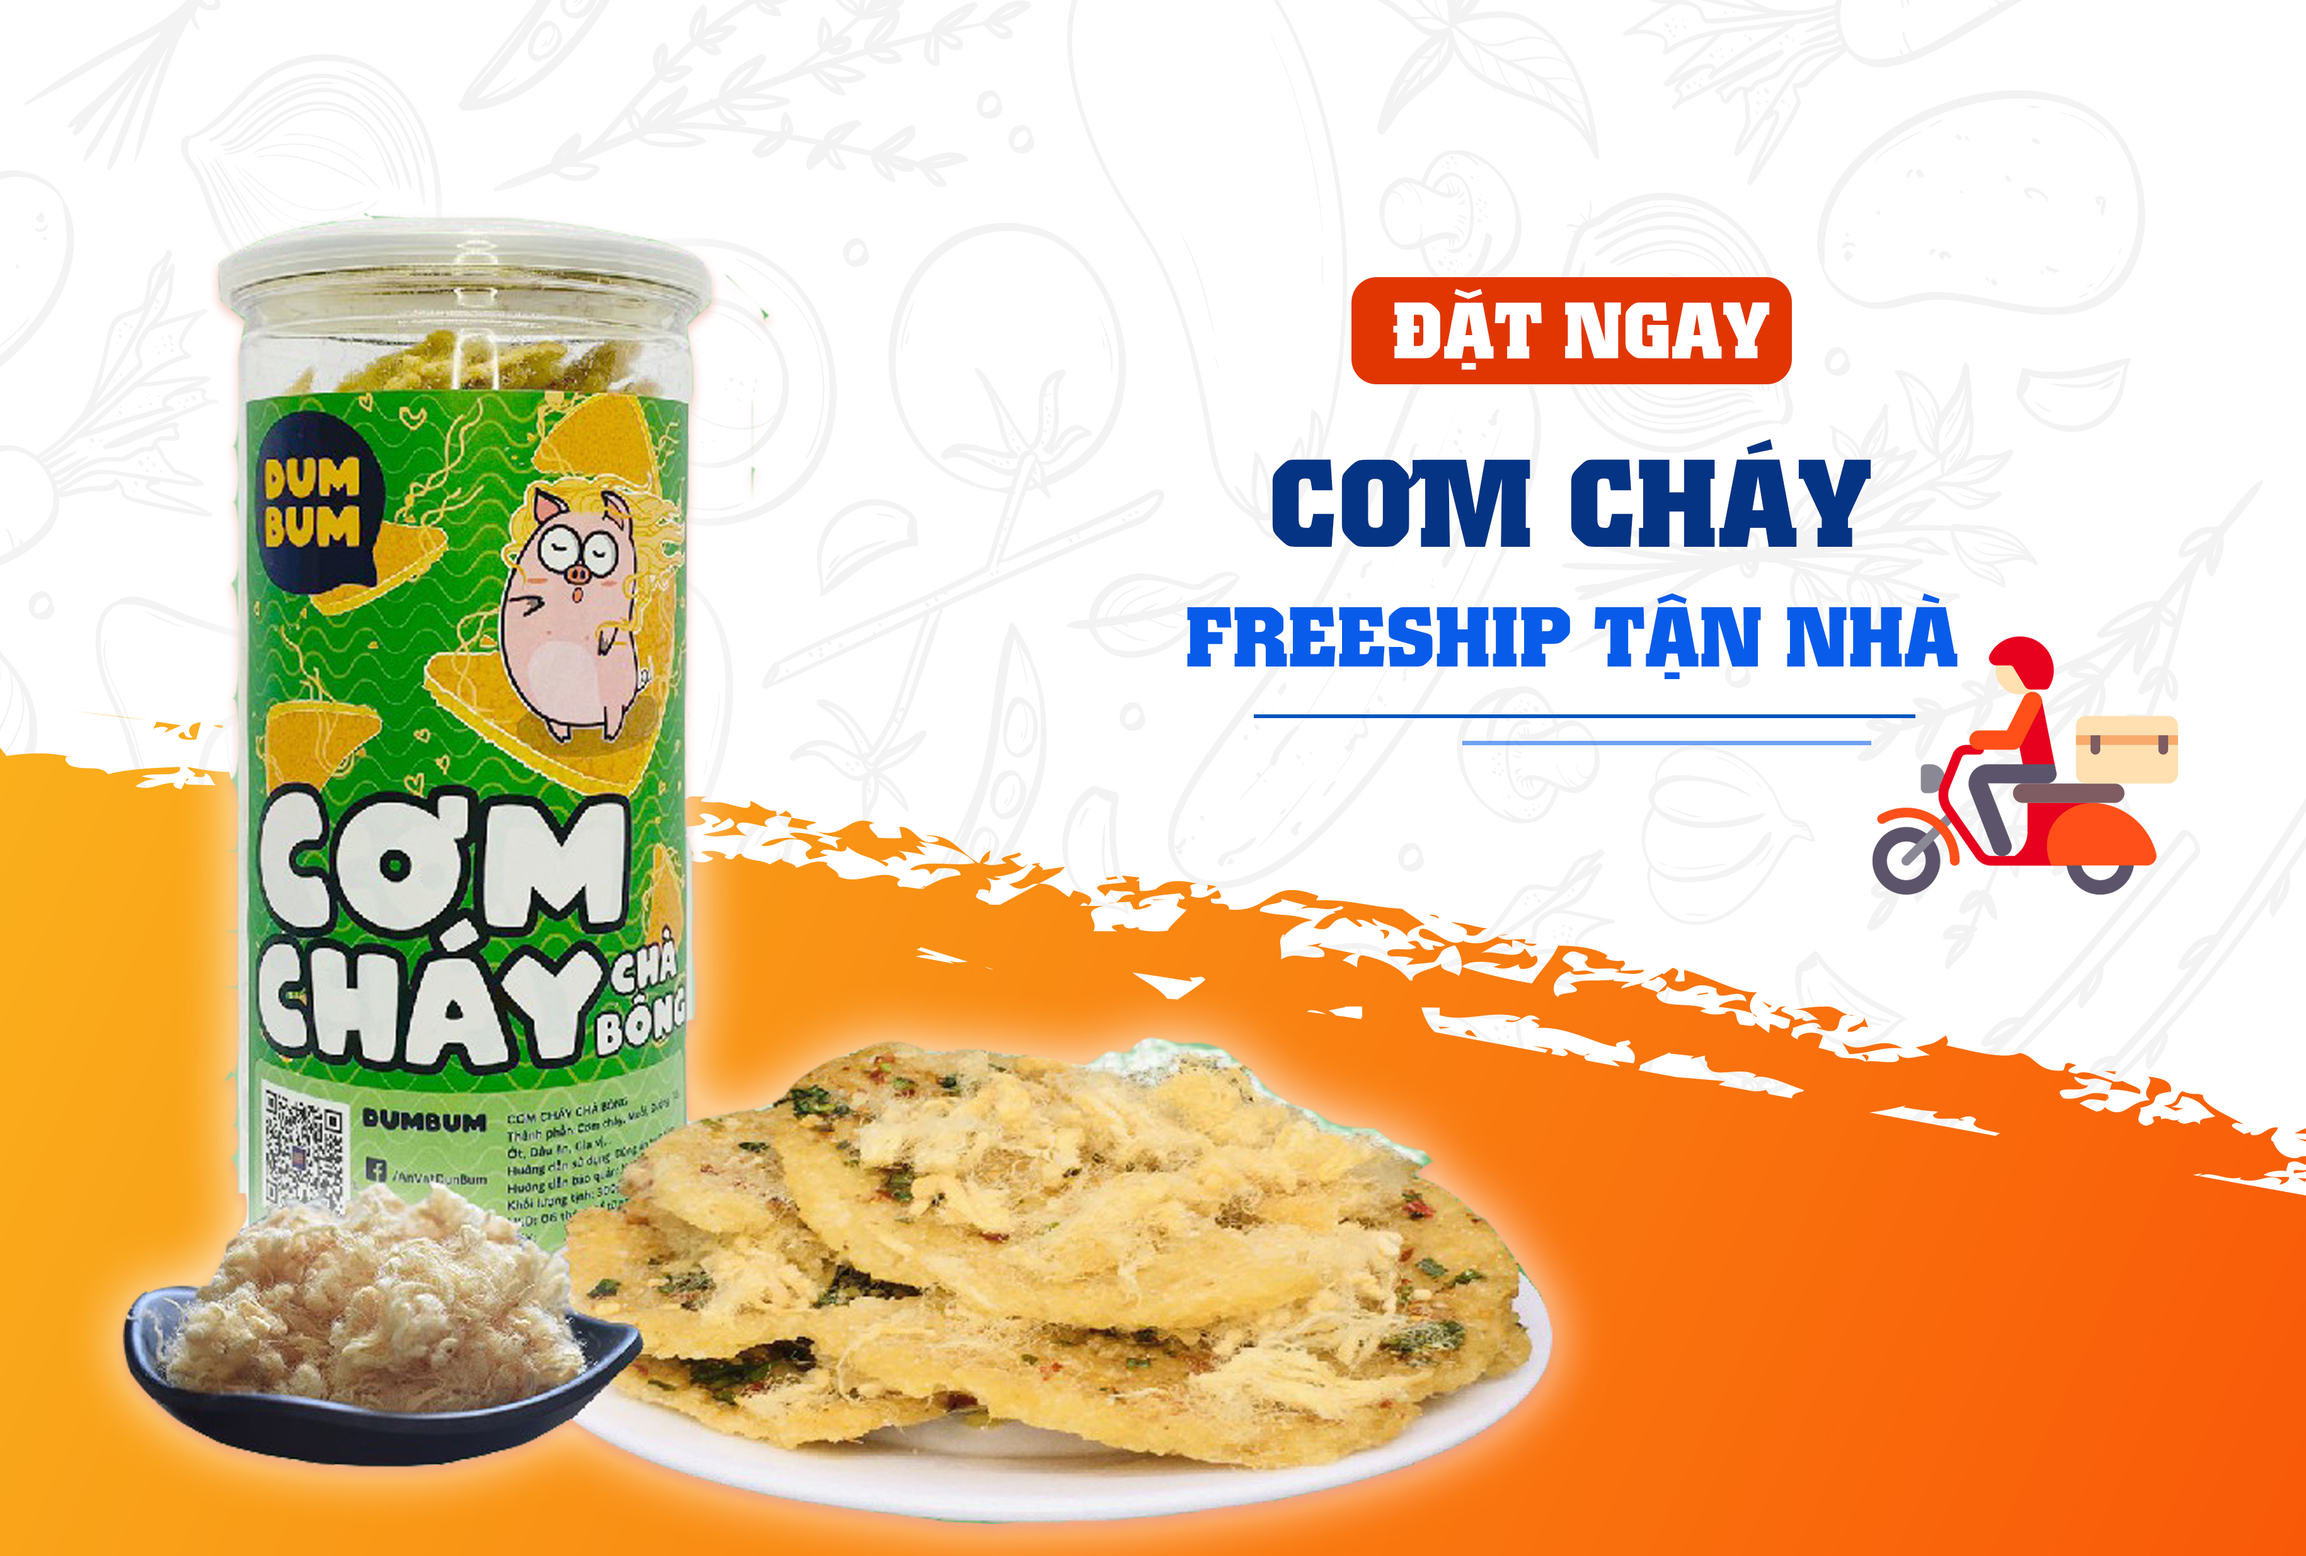
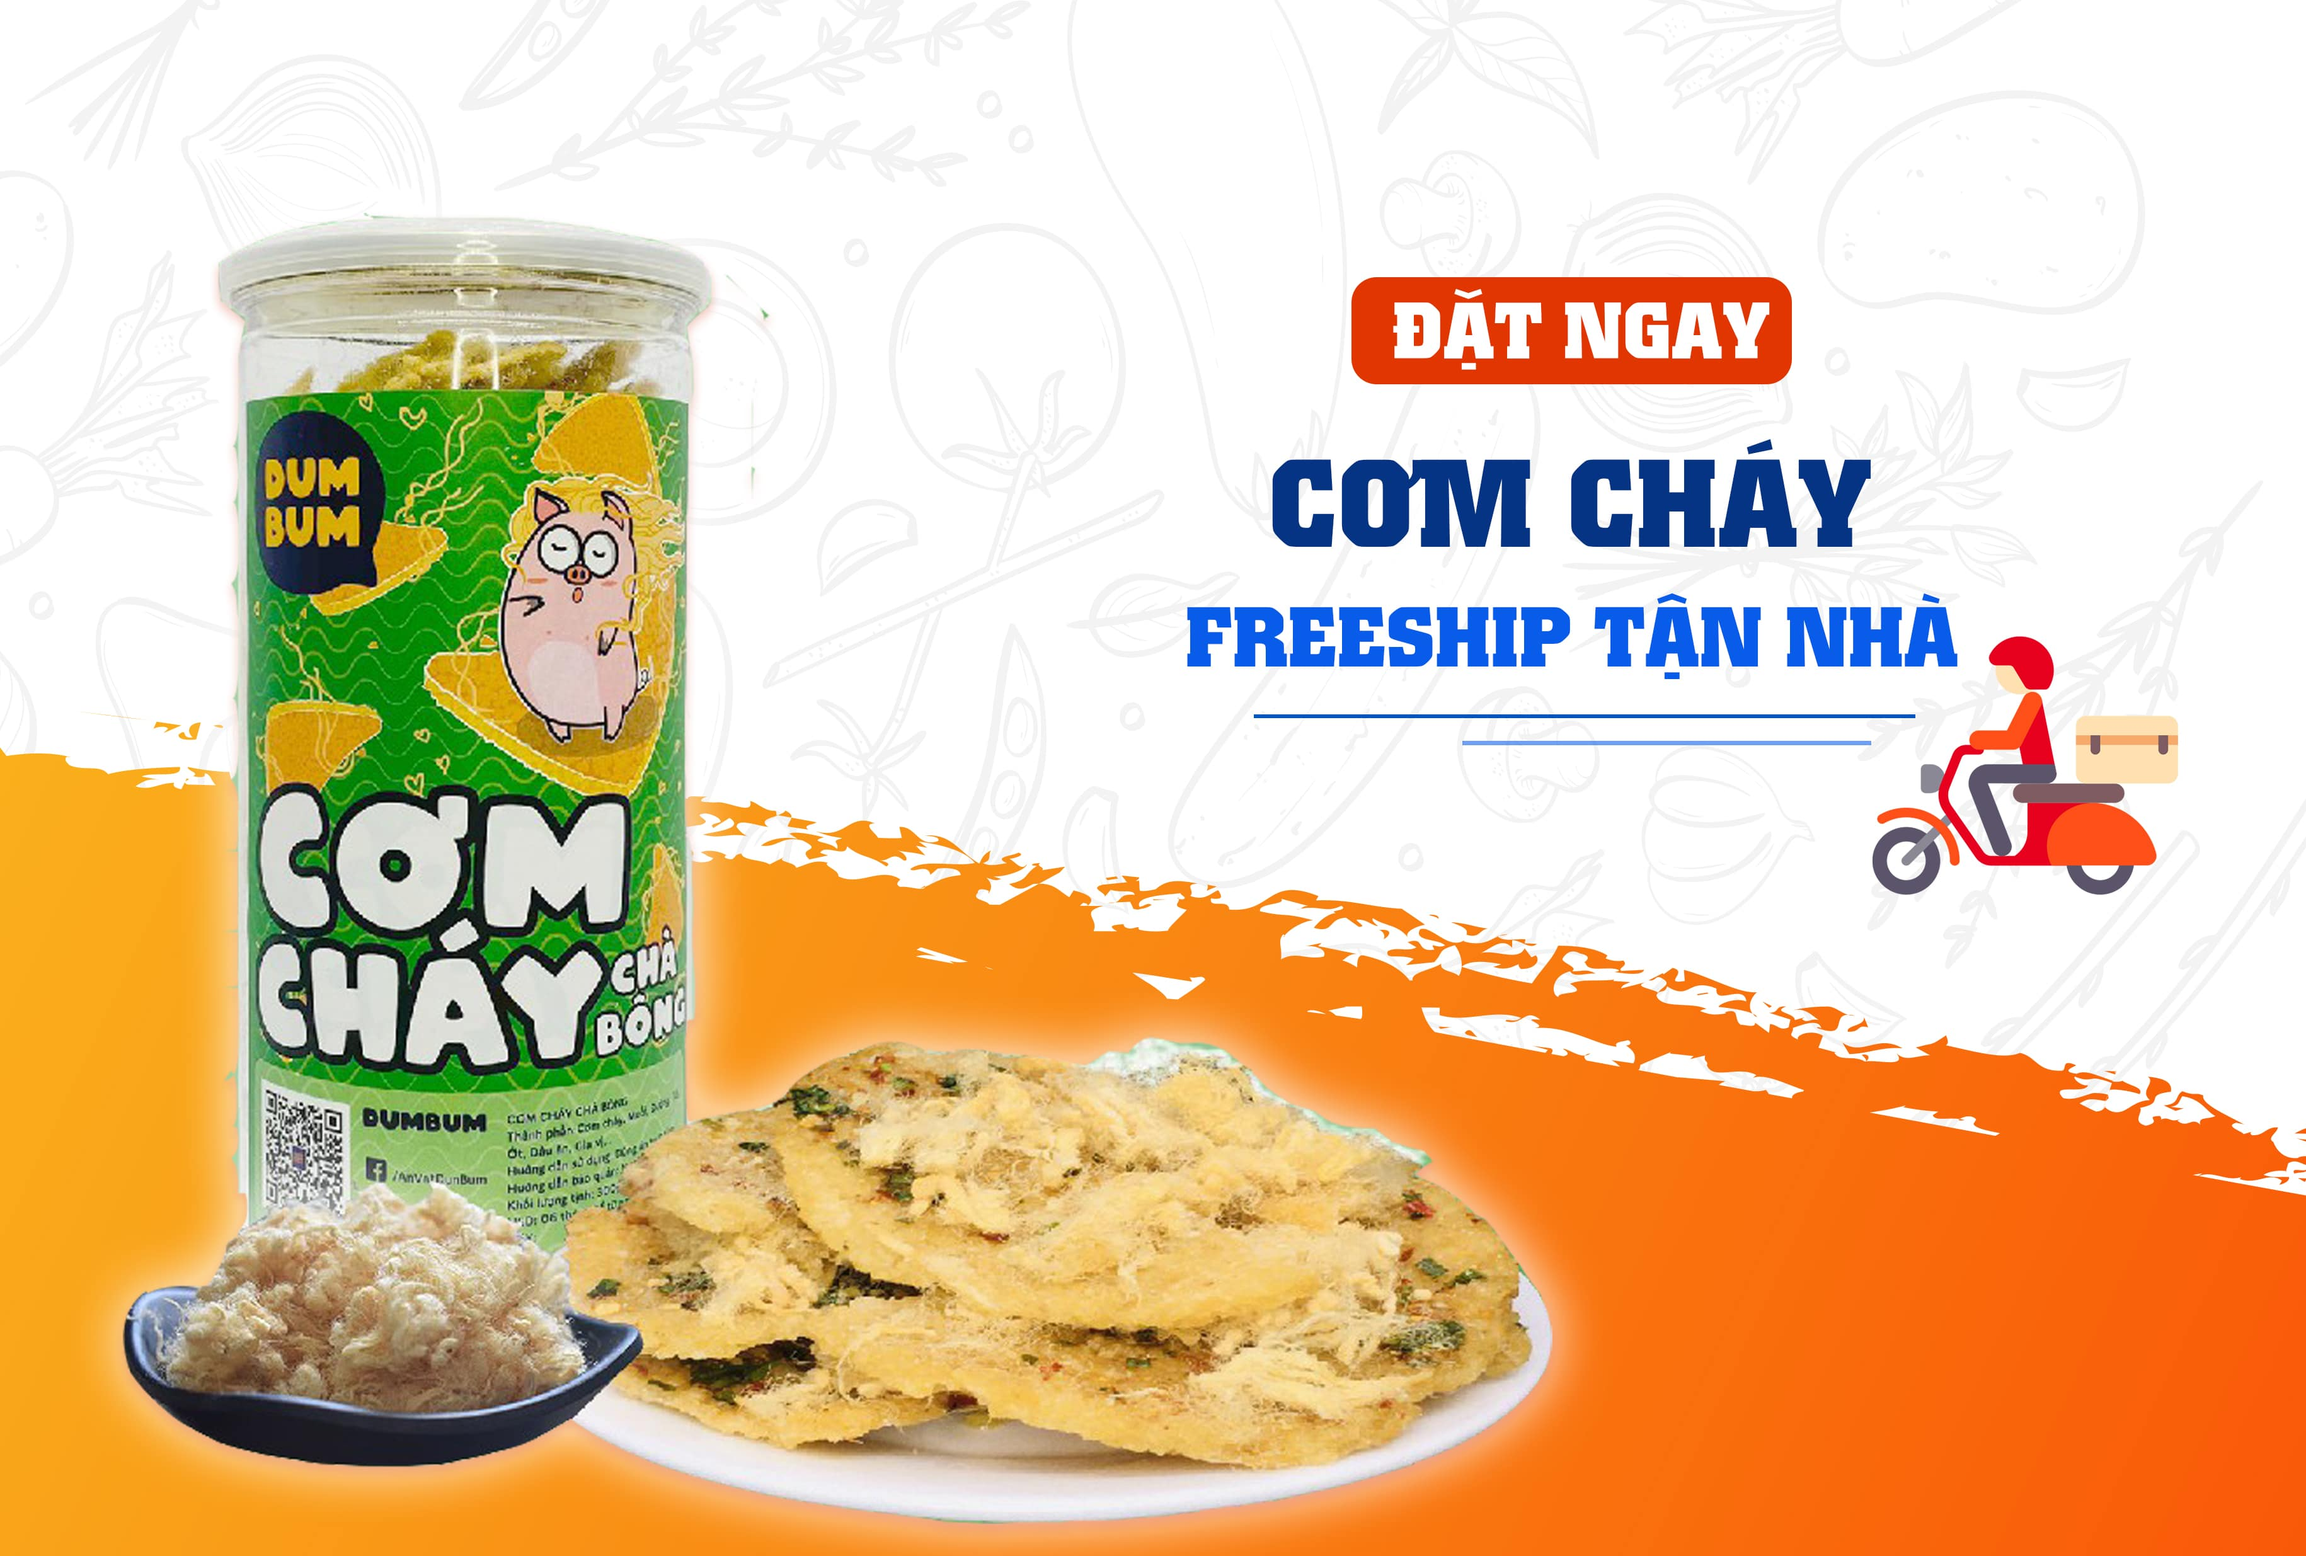
Giảm dung lượng ảnh

diff --git a/src/app/home-page/home-page.component.html b/src/app/home-page/home-page.component.html
@@ -2,26 +2,28 @@
 <mat-tab-group>
   <mat-tab *ngFor="let item of products" [label]="item.heading!">
     <div class="d-flex flex-wrap justify-content-around text-center pb-5 mt-3">
-      <app-product-template *ngFor="let productInItem of item.items" [product]="productInItem.value"></app-product-template>
+      <app-product-template *ngFor="let productInItem of item.items" [product]="productInItem.value"
+        (seeMore)="productInItem.rediect()"></app-product-template>
     </div>
   </mat-tab>
 </mat-tab-group>
 
 <div class="box-pre-footer">
-  <div style="font-weight: bold; color: var(--accent); font-size: 30px; text-align: center; line-height: 1.5;" >TIỆN LỢI KHI MUA ĐỒ ĂN VẶT TẠI DUMBUM</div>
+  <div style="font-weight: bold; color: var(--accent); font-size: 30px; text-align: center; line-height: 1.5;">TIỆN LỢI
+    KHI MUA ĐỒ ĂN VẶT TẠI DUMBUM</div>
   <div class="box-pre-footer flex-betweent-center" style=" margin-top: 30px; flex-wrap: wrap;">
-      <div class="text-pre-footer">
-          <i class="bi bi-truck"></i><span> Giao hàng ưu việt</span>
-          <p>Đội ngũ giao hàng đảm bảo tốt mọi nhu cầu mua sắm</p>
-      </div>
-      <div class="text-pre-footer">
-          <i class="bi bi-cup-straw"></i><span> Sản phẩm đa dạng</span>
-          <p>Đồ ăn vặt đa dạng, phong phú với nhiều loại khác nhau</p>
-      </div>
-      <div class="text-pre-footer">
-          <i class="bi bi-people"></i><span> Luôn lắng nghe bạn</span>
-          <p>Đội ngũ nhân viên sẽ luôn lắng nghe và cải thiện mỗi ngày</p>
-      </div>
+    <div class="text-pre-footer">
+      <i class="bi bi-truck"></i><span> Giao hàng ưu việt</span>
+      <p>Đội ngũ giao hàng đảm bảo tốt mọi nhu cầu mua sắm</p>
+    </div>
+    <div class="text-pre-footer">
+      <i class="bi bi-cup-straw"></i><span> Sản phẩm đa dạng</span>
+      <p>Đồ ăn vặt đa dạng, phong phú với nhiều loại khác nhau</p>
+    </div>
+    <div class="text-pre-footer">
+      <i class="bi bi-people"></i><span> Luôn lắng nghe bạn</span>
+      <p>Đội ngũ nhân viên sẽ luôn lắng nghe và cải thiện mỗi ngày</p>
+    </div>
 
   </div>
 

diff --git a/src/app/home-page/home-page.component.ts b/src/app/home-page/home-page.component.ts
@@ -11,16 +11,16 @@ export class HomePageComponent implements OnInit {
 
   products: Menu[] = [
     new Menu([
-      new MenuItem(new Product('Gà sấy khô', 40000, '1.png')),
-      new MenuItem(new Product('Gà sấy khô', 40000, '2.png')),
-      new MenuItem(new Product('Gà sấy khô', 40000, '3.png')),
-      new MenuItem(new Product('Gà sấy khô', 40000, '4.png'))
+      new MenuItem(new Product('Gà sấy khô', 40000, '1-min.png'), 'product-detail'),
+      new MenuItem(new Product('Gà sấy khô', 40000, '2-min.png')),
+      new MenuItem(new Product('Gà sấy khô', 40000, '3-min.png')),
+      new MenuItem(new Product('Gà sấy khô', 40000, '4-min.png'))
     ], 'SẢN PHẨM NỔI BẬT'),
     new Menu([
-      new MenuItem(new Product('Gà sấy khô', 40000, '5.png')),
-      new MenuItem(new Product('Gà sấy khô', 40000, '6.png')),
-      new MenuItem(new Product('Gà sấy khô', 40000, '7.png')),
-      new MenuItem(new Product('Gà sấy khô', 40000, '8.png'))
+      new MenuItem(new Product('Gà sấy khô', 40000, '5-min.png')),
+      new MenuItem(new Product('Gà sấy khô', 40000, '6-min.png')),
+      new MenuItem(new Product('Gà sấy khô', 40000, '7-min.png')),
+      new MenuItem(new Product('Gà sấy khô', 40000, '8-min.png'))
     ], 'GIẢM GIÁ')
   ]
 

diff --git a/src/app/header/header.component.html b/src/app/header/header.component.html
@@ -4,8 +4,8 @@
       <div class="container nav-header">
         <img id="logo" src="../../assets/logo.png" alt="Logo DumBum" style="height: 50px;">
         <div id="navContent" class="collapse w-100 my-2">
-          <div class="d-flex justify-content-lg-between flex-grow-1 navbar-nav">
-            <div class="d-flex justify-content-between w-50 px-0 navbar-nav">
+          <div class="flex-betweent-center flex-grow-1 navbar-nav">
+            <div class="flex-betweent-center w-50 px-0 navbar-nav">
               <a class="nav-link" *ngFor="let item of mainPages.items">{{item.value}}</a>
             </div>
             <hr>
@@ -16,7 +16,7 @@
             </div>
           </div>
         </div>
-        <a id="toggle" class="navbar-toggler border-0" type="button" data-bs-toggle="collapse"
+        <a id="toggle" class="navbar-toggler border-0 mt-3" type="button" data-bs-toggle="collapse"
           data-bs-target="#navContent" aria-controls="navContent" aria-expanded="false">
           <span class="navbar-toggler-icon"></span>
         </a>

diff --git a/src/app/banner/banner.component.html b/src/app/banner/banner.component.html
@@ -1,8 +1,8 @@
-<img src="../../assets/BANNER fi.jpg" class="full-width">
-<div class="d-flex justify-content-between rounded-hard-children">
-  <img src="../../assets/1.jpg" alt="Ảnh 1" title="Ảnh 1">
-  <div id="sub-banner" class="d-flex flex-column flex-grow-1 rounded-hard-children">
-    <img src="../../assets/BANNER 2.jpg" alt="BANNER 2" title="BANNER 2">
-    <img src="../../assets/BANNER 3.jpg" alt="BANNER 3" title="BANNER 3">
+<img src="../../assets/BANNER fi.jpg" class="full-width m-0">
+<div class="d-flex rounded-hard-children" style="margin: 2em 0;">
+  <img src="../../assets/1.jpg" alt="Ảnh 1" title="Ảnh 1" style="margin-right: 1em;">
+  <div id="sub-banner" class="d-flex flex-column flex-grow-1 rounded-hard-children" style="margin-left: 1em;">
+    <img src="../../assets/BANNER 2.jpg" alt="BANNER 2" title="BANNER 2" style="margin-bottom: 1em;">
+    <img src="../../assets/BANNER 3.jpg" alt="BANNER 3" title="BANNER 3" style="margin-top: 1em;">
   </div>
 </div>

diff --git a/src/app/product-template/product-template.component.html b/src/app/product-template/product-template.component.html
@@ -1,8 +1,8 @@
 <div class="row m-3">
-  <div class="product-group">
+  <div class="product-group" role="button" (click)="seeMore.emit()">
     <div class="row text-center w-100">
       <div class="card card-body card-product shadow rounded-hard">
-        <img [src]="'../../assets/' + product.imageURL" class="rounded-top rounded-hard">
+        <img [src]="'../../assets/' + product.imageURL" class="rounded-top rounded-hard" loading="lazy">
         <div class="fs-5 text-uppercase lh-sm d-grid mt-1">
           <span>{{product.name}}</span>
           <span class="fw-bold">{{product.unitPrice}}</span>

diff --git a/src/app/product-template/product-template.component.ts b/src/app/product-template/product-template.component.ts
@@ -1,4 +1,4 @@
-import { Component, Input, OnInit } from '@angular/core';
+import { Component, EventEmitter, Input, OnInit, Output } from '@angular/core';
 import { Product } from 'src/models/product';
 
 @Component({
@@ -9,6 +9,7 @@ import { Product } from 'src/models/product';
 export class ProductTemplateComponent implements OnInit {
 
   @Input() product!: Product;
+  @Output() seeMore = new EventEmitter();
 
   constructor() { }
 

diff --git a/src/app/header/header.component.css b/src/app/header/header.component.css
@@ -29,5 +29,13 @@
   }
   #search {
     margin: auto;
+    width: 50vw;
+    max-width: 100%;
+  }
+}
+
+@media (min-width: 1000px){
+  #navContent{
+    display: initial;
   }
 }

diff --git a/src/styles.scss b/src/styles.scss
@@ -201,6 +201,7 @@ a.nav-link:hover {
 }
 
 .full-width {
+  max-width: 100vw !important;
   width: 100vw !important;
   position: relative !important;
   left: 50% !important;

diff --git a/src/app/app.component.html b/src/app/app.component.html
@@ -3,7 +3,7 @@
 </header>
 
 <main class="bg-light">
-  <div class="container-lg">
+  <div class="container-lg ">
     <router-outlet></router-outlet>
   </div>
 </main>

diff --git a/src/app/banner/banner.component.scss b/src/app/banner/banner.component.scss
@@ -1,7 +1,6 @@
 img {
-  width: 100%;
+  max-width: 100%;
   max-height: 600px;
-  margin: 1em;
 }
 
 @media (max-width: 1400px) {
